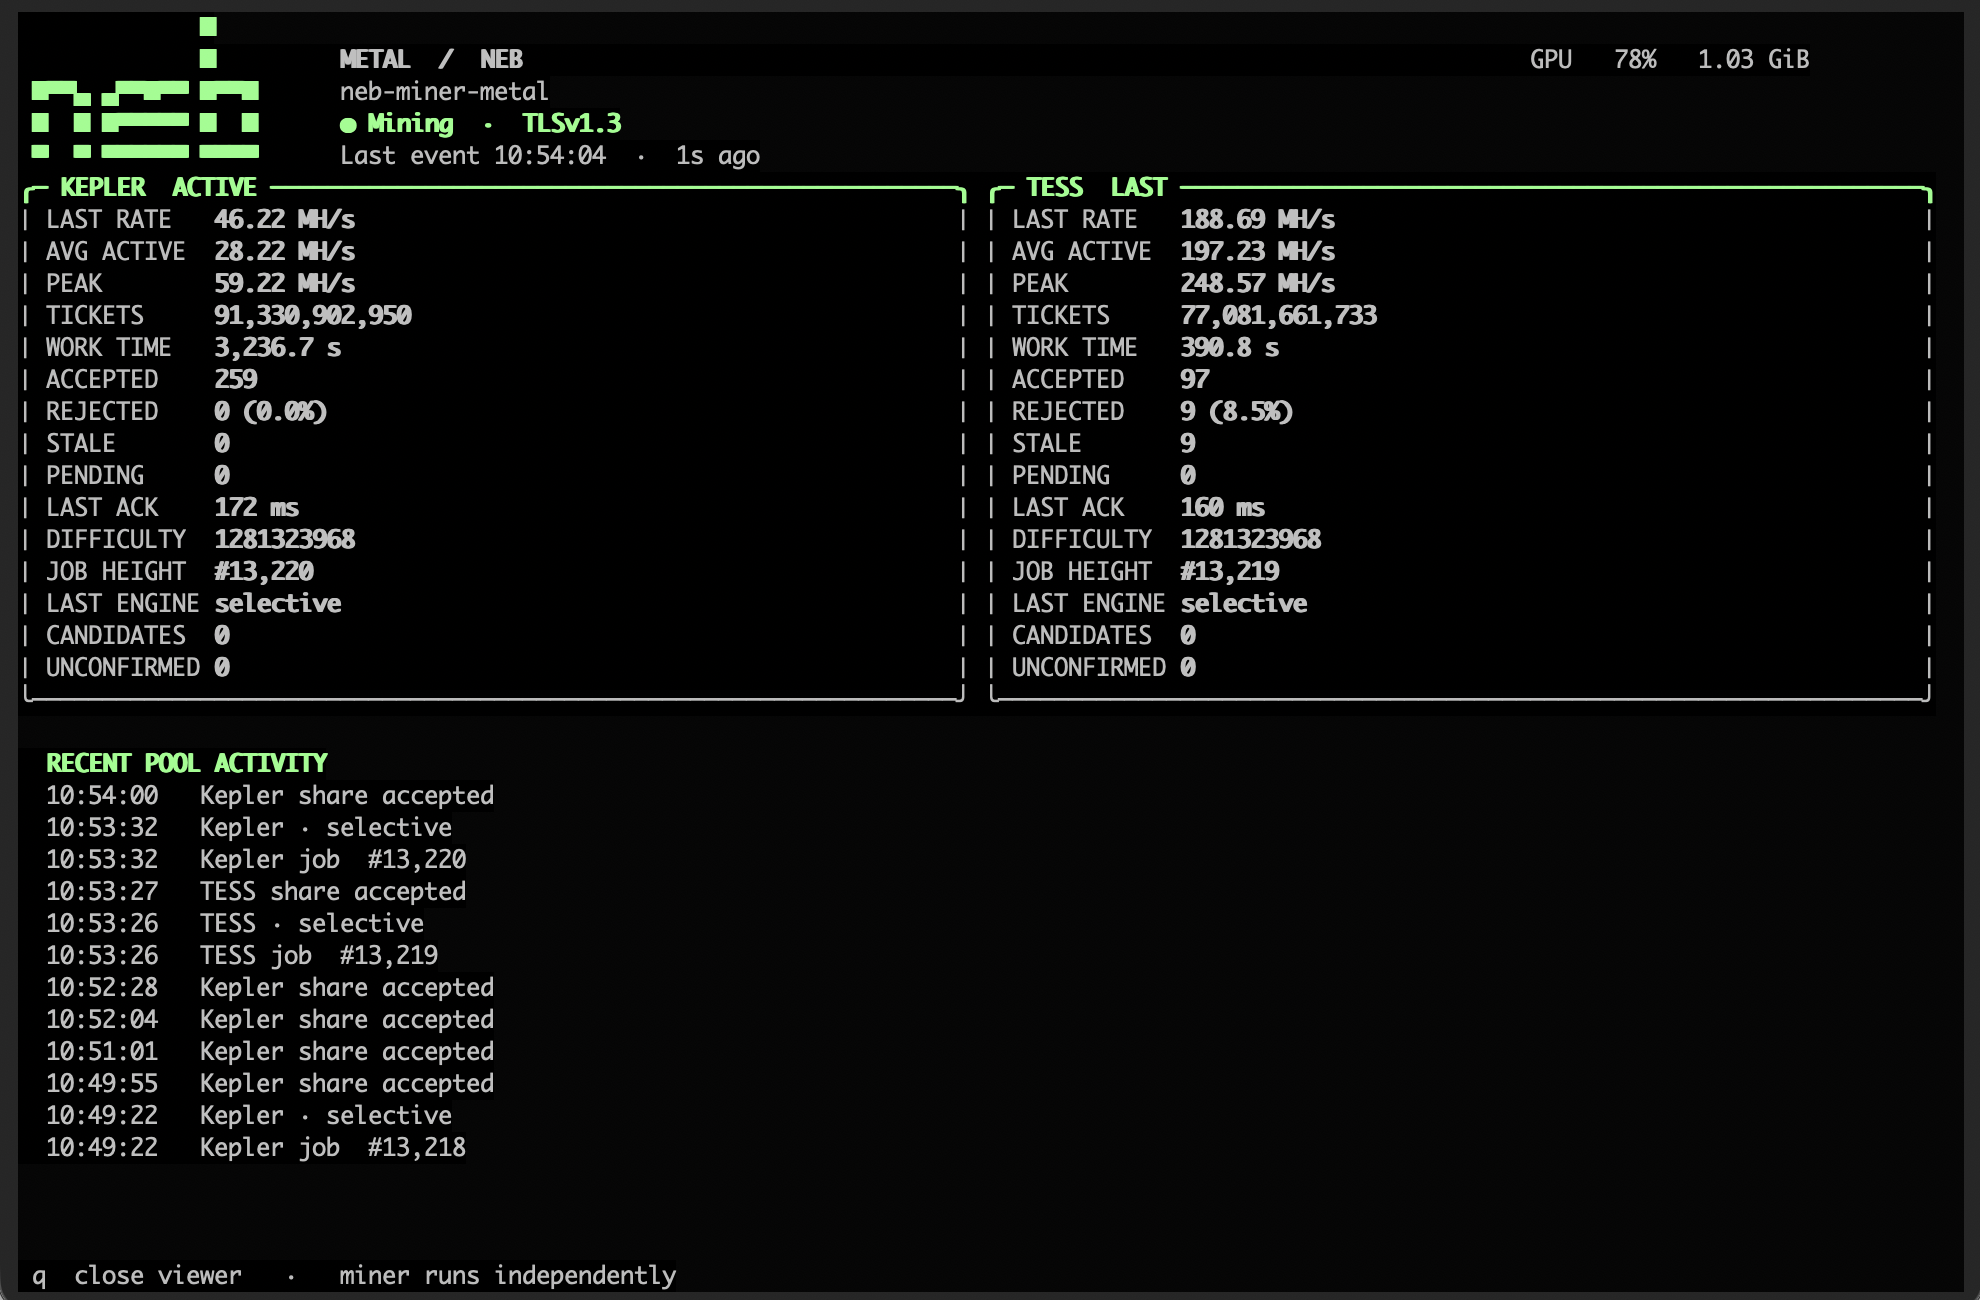
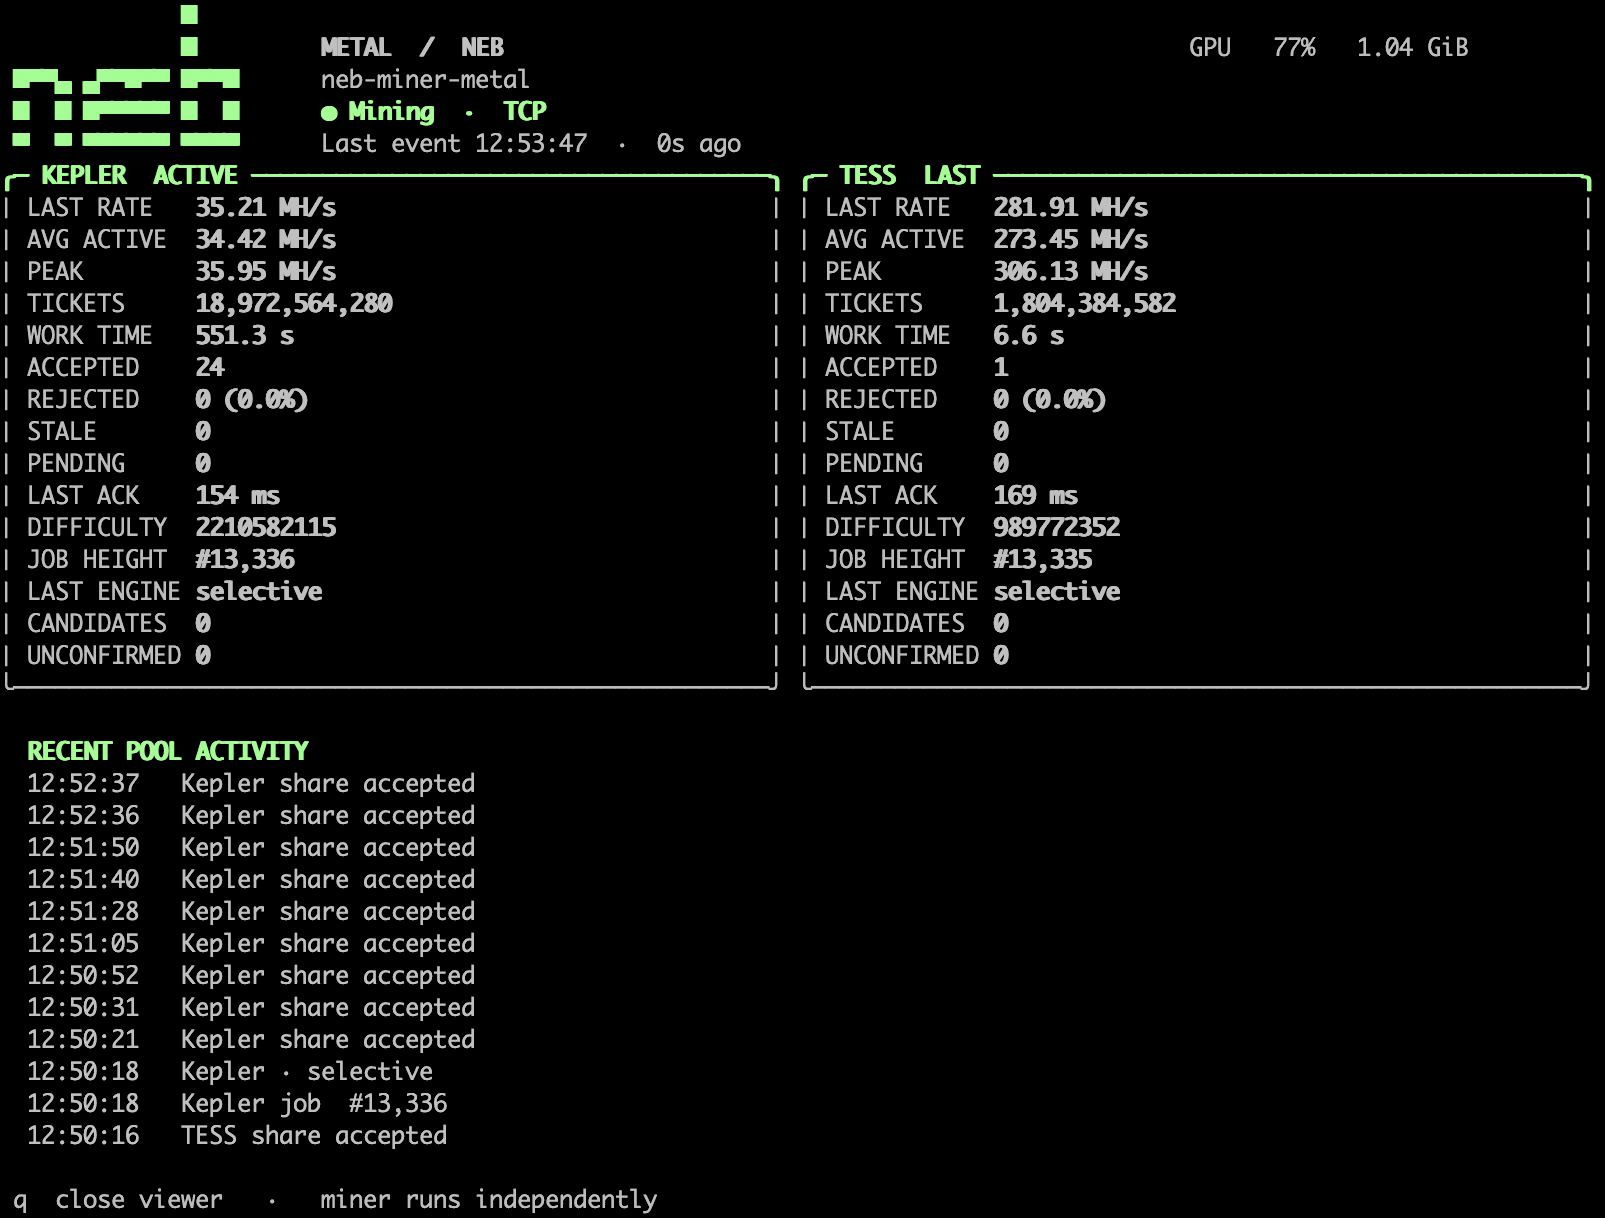
docs: show the TCP mining dashboard

Changed region(s): [[0.0, 0.0, 1.0, 1.0], [0.4673, 0.1248, 0.7477, 0.5616], [0.405, 0.0936, 0.4673, 0.1248]]

diff --git a/README.md b/README.md
@@ -19,7 +19,7 @@ The two miners make different tradeoffs. This backend spent 306 ms on Kepler and
 
 In a 30-minute Suprnova pool run on the same Mac, Kepler averaged **23.22 MH/s** and TESS averaged **93.30 MH/s**. Each rate counts completed tickets over the time the pool assigned that model, including setup. Suprnova accepted 59 of 59 Kepler shares and 19 of 20 TESS shares. One TESS share went stale at a job change. [Pool tests and tuning](docs/metal-pool-tuning.md)
 
-![NEB terminal dashboard with Kepler mining, the last TESS job, and recent pool replies](docs/images/metal-miner-dashboard.png)
+![NEB dashboard mining over TCP, with Kepler active, the last TESS job and recent pool replies](docs/images/metal-miner-dashboard.png)
 
 ## Try it on your Mac
 
